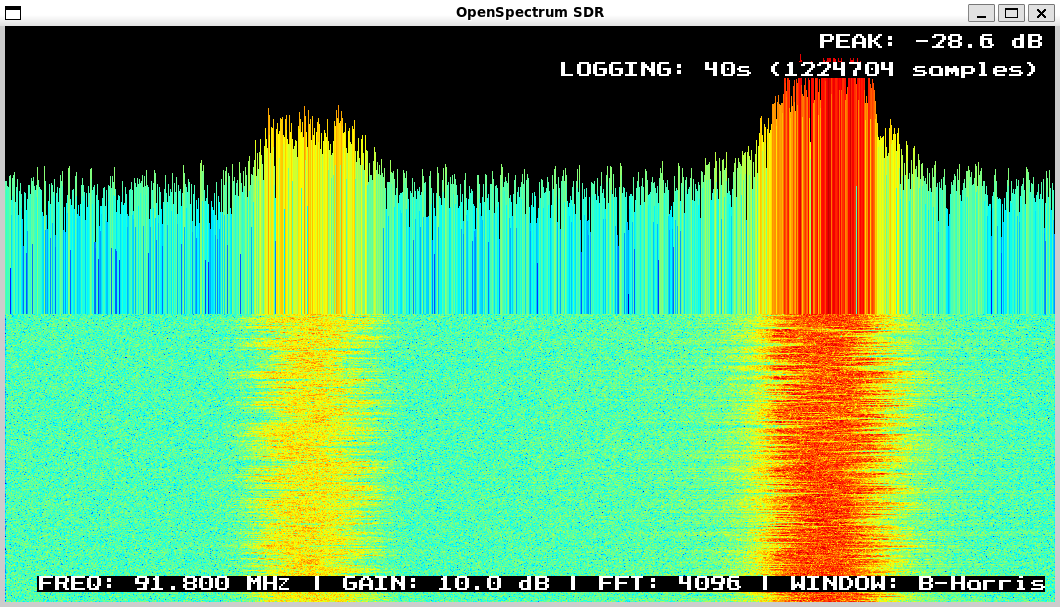
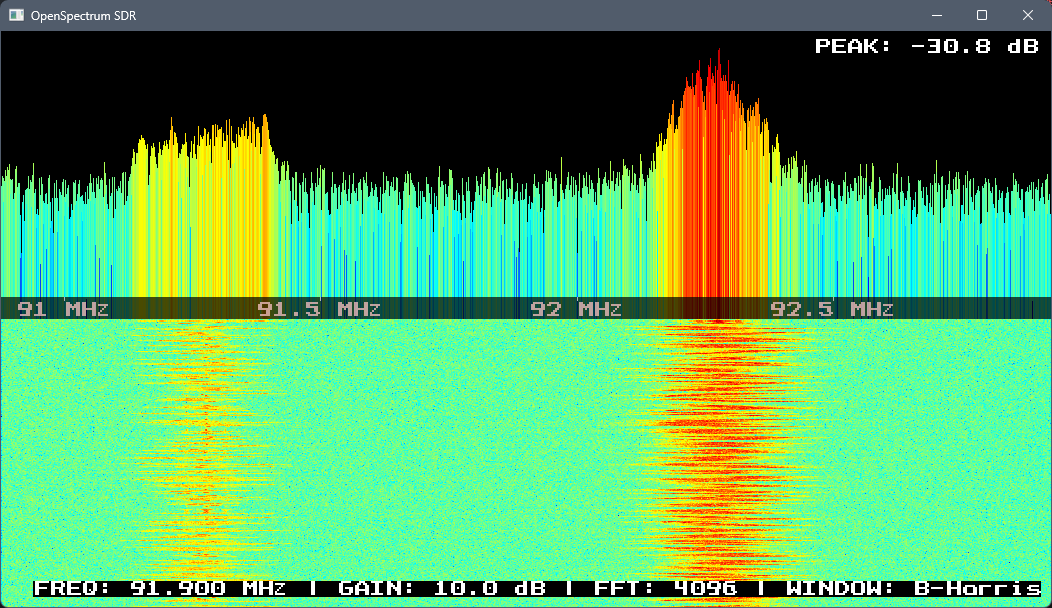
docs: update README with latest changes
- Bump minimum compiling architecture to Haswel to utilize AVX2
- Update the software interface image with frequency scale at the bottom
- Rename KissFFT occurances to pocketfft

diff --git a/README.md b/README.md
@@ -50,7 +50,7 @@ all simultaneously in the IQ stream.
 
 The project embraces the **divide and conquer** strategy, decomposing SDR processing into isolated, interchangeable modules.
 
-Each module communicates via well-defined interfaces. By following community standards (librtlsdr, KissFFT), compatibility and ease of adoption is ensured.
+Each module communicates via well-defined interfaces. By following community standards (librtlsdr, pocketfft), compatibility and ease of adoption is ensured.
 
 ### Module Directory Structure
 
@@ -65,7 +65,8 @@ OpenSpectrum/
 │   └── utils/             # Logging, configuration, utilities
 ├── include/
 ├── third_party/
-│   └── kissfft/           # Lightweight FFT library
+|   ├── stb/               # Writing images to C stdio
+│   └── pocketfft/         # High-performing FFT library
 └── Makefile               # Security-hardened build system
 ```
 
@@ -109,19 +110,18 @@ pacman -S mingw-w64-x86_64-gcc mingw-w64-x86_64-make \
 
 ## Build from Source
 
-This project compiles with `-march=nehalem` as the architectural baseline, targeting CPUs from 2008+ with support for:
+This project compiles with `-march=haswell` as the architectural baseline, targeting CPUs from 2008+ with support for:
 - **SSE4.1 / SSE4.2** — Advanced SIMD instructions
 - **POPCNT** — Population count instruction
 - **CX16** — Compare and exchange 16-byte
 - **SAHF / FXSR** — Legacy x87 state management
 
-This should cover virtually all x86-64 processors in active use. For older CPUs, remove `-march=nehalem` from `CXXFLAGS` in the Makefile.
+This should cover virtually all x86-64 processors in active use. For older CPUs, remove `-march=haswell` from `CXXFLAGS` in the Makefile.
 
 ```bash
 # Clone the repository
 git clone https://github.com/domagoj-kod/OpenSpectrum.git
 cd OpenSpectrum
-git submodule update --init --recursive
 
 # Build with debug symbols
 make debug
@@ -136,7 +136,7 @@ make clean
 | Target | Optimization | Debug Info | Use Case |
 |--------|--------------|------------|----------|
 | `make` or `make debug` | `-O0` | Full (`-g`) | Development, debugging |
-| `make release` | `-O3 -flto -march=nehalem` | None (`-DNDEBUG`) | Production |
+| `make release` | `-O3 -flto -march=haswell` | None (`-DNDEBUG`) | Production |
 | `make profile` | `-O2 -pg` | Full (`-g`) | Performance analysis |
 
 All builds include:
@@ -178,9 +178,6 @@ Examples:
   ./openspectrum -W hann
   ./openspectrum --iq-log --iq-duration 10 --iq-output my_capture
 ```
-
-> [!NOTE]
-> The log batching is expected behavior for USB 2.0 RTL-SDR devices. The ~8.5 FPS frame rate is limited by USB transfer latency, not CPU/FFT. This is normal and acceptable for the current hardware configuration. Cosmetic issue, functionality works correctly.
 
 Apart from command line arguments the program uses keyboard shortcuts for frequency tuning, gain control, Fast Fourier Transform size & window functions change. Shift modifer allows for fine control fine control (0.1 MHz, 0.1 dB), while Ctrl modifier is used for coarse control (1 MHz, 10 dB).
 
@@ -315,9 +312,9 @@ rtl_eeprom
 
 ## Performance Notes
 
-Dell Precision notebook with Intel® Core™ i7-12700H processor displays minimal usage under maximum size FFT computations, utilizing ~1% CPU power and 30 MB of system memory.
+Dell Precision notebook with Intel® Core™ i7-12700H processor displays minimal usage under maximum size FFT computations, utilizing <1% CPU and occupying ~55 MB of system memory.
 
-- **FFT Performance:** KissFFT provides optimized FFT computation. For larger FFT sizes (8192+), paralelization is required.
+- **FFT Performance:** pocketfft provides SIMD accelerated FFT computation.
 - **Sample Rate:** Maximum stable rate depends on USB 2.0 bandwidth (~40 MB/s).
 - **Latency:** End-to-end latency is typically <50ms at 2.048 MS/s with FFT_SIZE=4096.
 
@@ -380,7 +377,7 @@ Contributions are welcome! Please follow these guidelines:
 ## Acknowledgments
 
 - **librtlsdr** — RTL-SDR device library
-- **KissFFT** — Fast Fourier Transform implementation by Mark Borgerding
+- **pocketfft** — Fast Fourier Transform implementation by Martin Reinecke
 - **SDL2** — Simple DirectMedia Layer for cross-platform rendering
 - **GNU Radio** — Inspiration for modular SDR pipeline architecture
 
